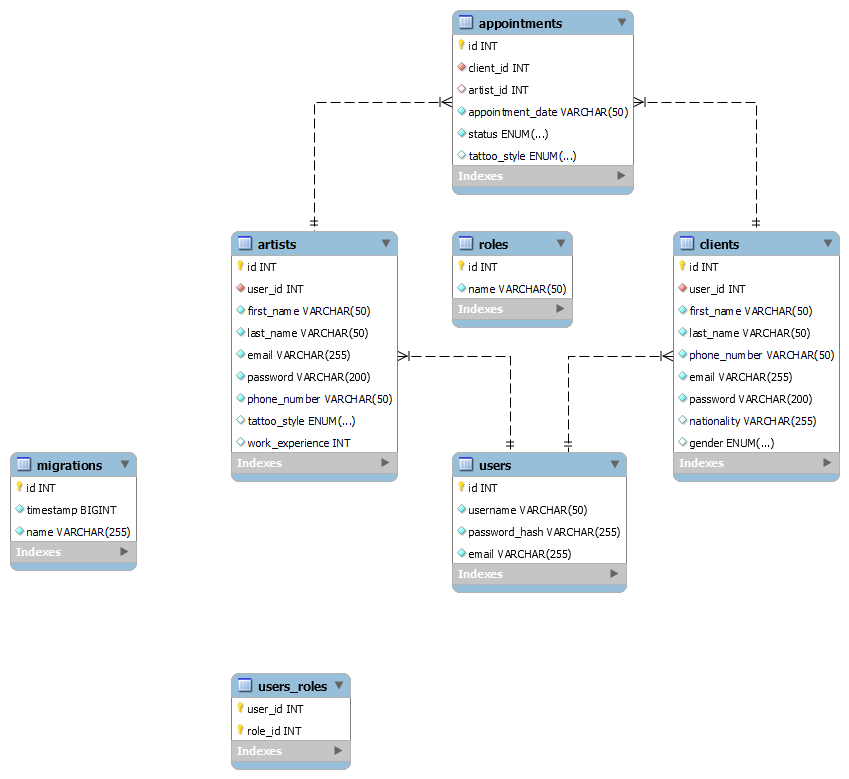
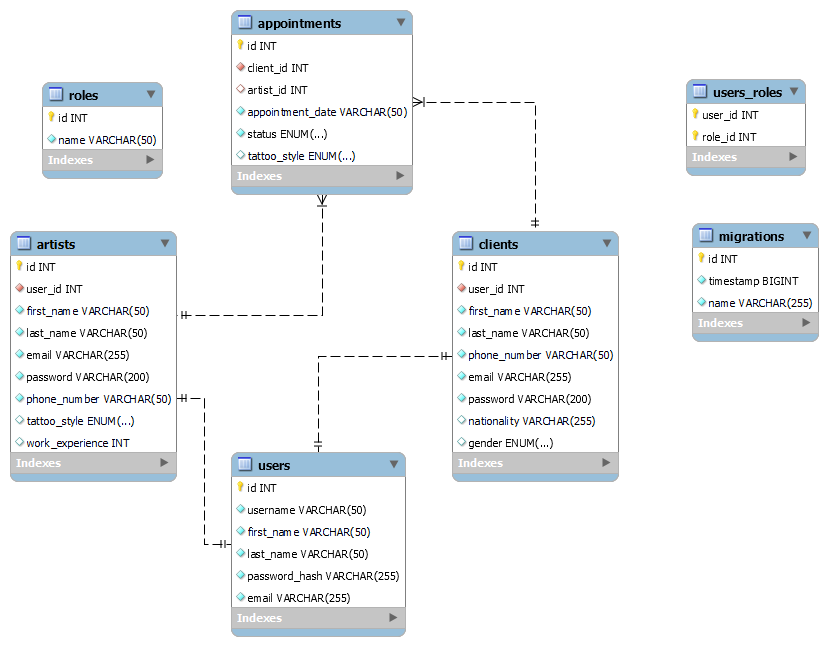
Relationships changed and diagram updated

diff --git a/src/database/migrations/06-CreateAppointments.ts b/src/database/migrations/06-CreateAppointments.ts
@@ -52,13 +52,13 @@ export class CreateAppointments1705350282513 implements MigrationInterface {
                   columnNames: ["client_id"],
                   referencedTableName: "clients",
                   referencedColumnNames: ["id"],
-                  //onDelete: "CASCADE"
+                  onDelete: "CASCADE"
                 },
                 {
                   columnNames: ["artist_id"],
                   referencedTableName: "artists",
                   referencedColumnNames: ["id"],
-                  //onDelete: "CASCADE"
+                  onDelete: "CASCADE"
                 },
              ],
             }),

diff --git a/src/models/Appointment.ts b/src/models/Appointment.ts
@@ -13,8 +13,8 @@ export class Appointment {
     @Column()
     client_id!: number;
   
-    @Column({ nullable: true})
-    artist_id?: number;
+    @Column()
+    artist_id!: number;
 
     @Column({ type: 'datetime', default: () => 'CURRENT_TIMESTAMP' })
     appointment_date!: Date;

diff --git a/src/models/Client.ts b/src/models/Client.ts
@@ -32,7 +32,7 @@ export class Client {
     nationality?: string;
 
     // 1:1 con User 
-    @ManyToOne(() => User, (user) => user.client)
+    @OneToOne(() => User, (user) => user.client)
     @JoinColumn({name: "user_id"})
     user!: User;
 

diff --git a/README.md b/README.md
@@ -87,12 +87,11 @@ Tecnologías utilizadas:
             PATCH http://localhost:3000/api/users/2
         body:
         ``` js
-             {
-                "username" : "cambionuevoreynaldo52.munoz",
-                "first_name": "cambioreynaldo",
-                "last_name": "munoz",
-                "email" : "cambionuevoreynaldo52@example.com",
-                "password": "123456"
+            {
+                "username" : "alberto.martin",
+                "first_name": "Alberto",
+                "last_name": "Martin",
+                "email" : "alberto.nuevo@example.com"
             }
         ```
     - APPOINTMENT CREATION
@@ -102,9 +101,8 @@ Tecnologías utilizadas:
         ``` js
             {
                 
-                  "user_id": 1,
-                  "tattoo_artist_id": 1,
-                  "appointment_date": "2024-04-17 10:30:00"
+                  "client_id": 1,
+                  "appointment_date": "2024-02-18 20:30:00"
 
             }
         ```
